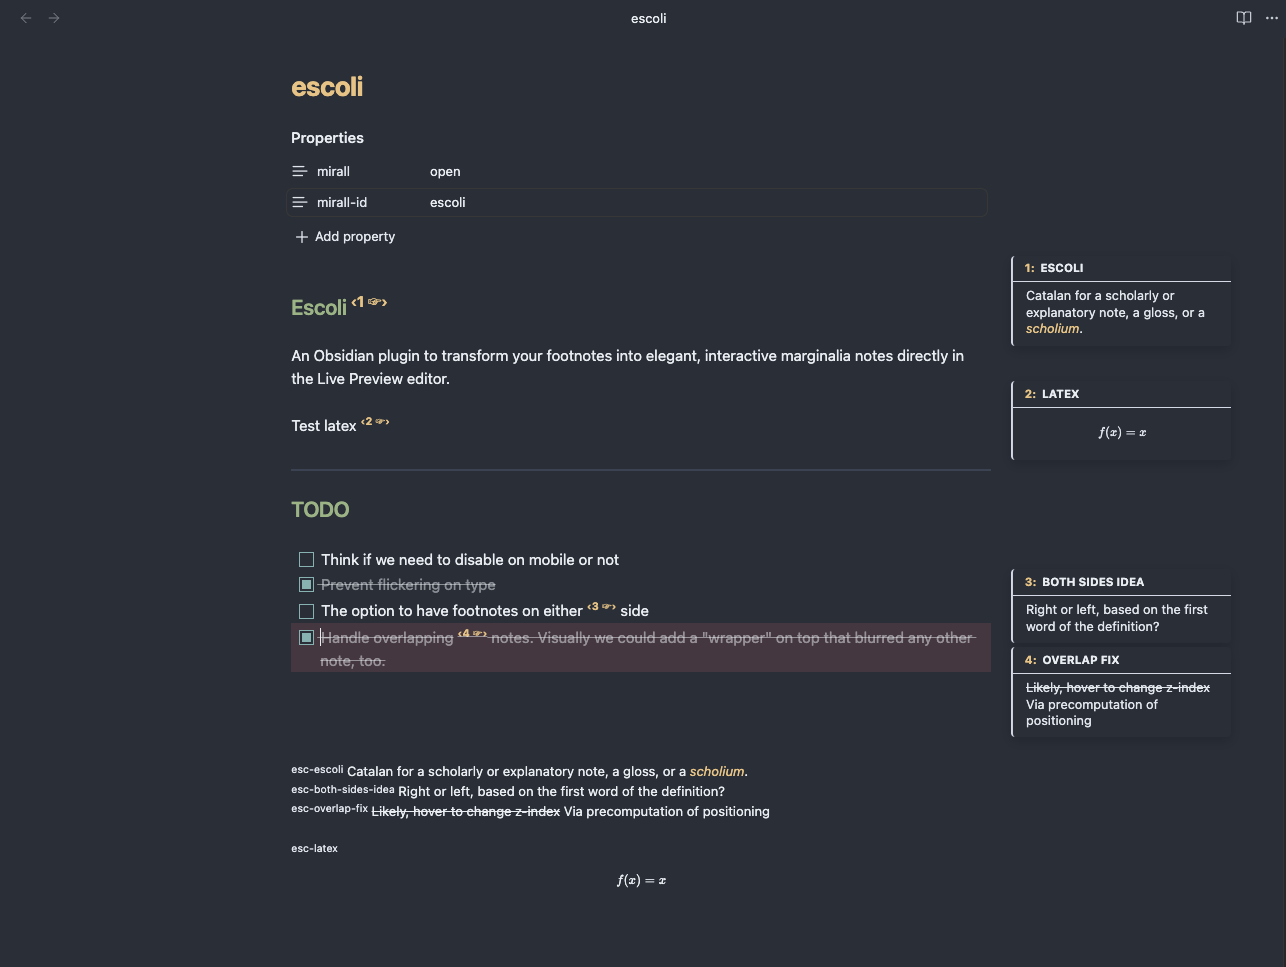
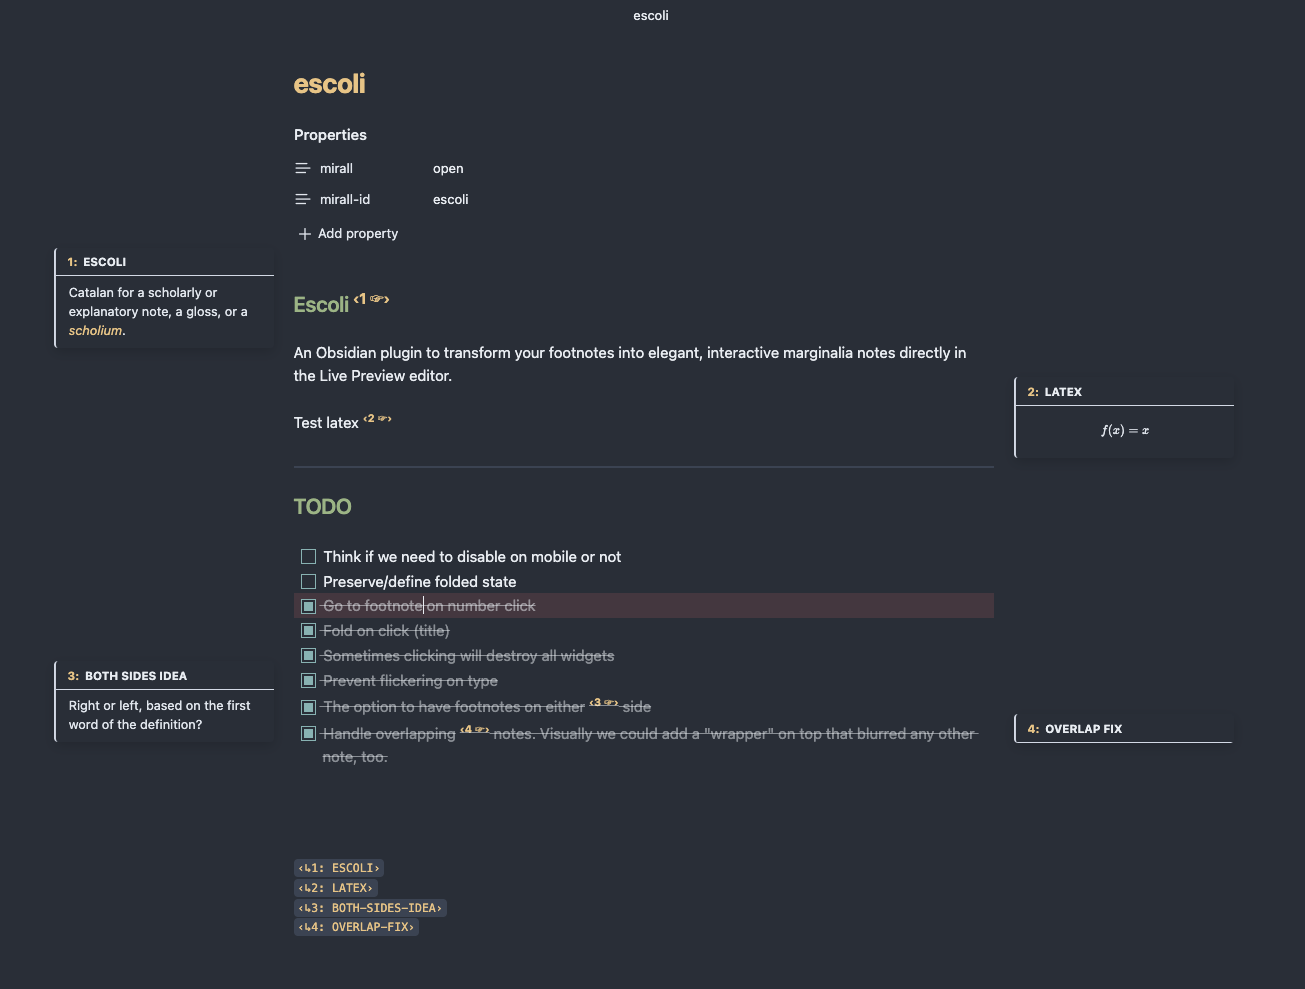
Estable left notes

diff --git a/styles.css b/styles.css
@@ -11,7 +11,9 @@
 	box-shadow: 0 4px 12px rgba(0, 0, 0, 0.15);
 	border-radius: 4px;
 	/* pointer-events: none; <-- This was the issue */
-	transition: top 0.2s ease-out, left 0.2s ease-out;
+	transition:
+		top 0.2s ease-out,
+		left 0.2s ease-out;
 	overflow: hidden;
 }
 
@@ -79,7 +81,7 @@ div.footnotes {
 
 /* Styles for the compact footnote definition marker */
 .escoli-footdef-mark {
-	color: var(--text-muted);
+	color: var(--code-function);
 	cursor: pointer;
 	font-family: var(--font-monospace);
 	font-size: var(--font-smaller);

diff --git a/src/EscoliViewPlugin.ts b/src/EscoliViewPlugin.ts
@@ -28,7 +28,7 @@ class FootnoteDefWidget extends WidgetType {
 	toDOM(view: EditorView): HTMLElement {
 		const el = createEl("span", {
 			cls: "escoli-footdef-mark",
-			text: `<${this.footnoteNumber}: ${this.displayName.toUpperCase()} 👁>`,
+			text: `‹↳${this.footnoteNumber}: ${this.displayName.toUpperCase()}›`,
 		});
 		return el;
 	}

diff --git a/README.md b/README.md
@@ -15,12 +15,18 @@ An Obsidian plugin to transform your footnotes into elegant, interactive margina
 
 Escoli enhances Obsidian's editor by turning a specific subset of your footnotes into a dynamic system for side notes.
 
-* **Live Preview Marginalia**: Your footnote content appears automatically in the right-hand margin as you write, no need to switch to Reading View.
-* **Editable Markers**: The footnote references in your text are replaced by clean, numbered markers (`‹1 ☞›`). Clicking on a marker instantly reveals the original `[^esc-note]` text so you can edit it seamlessly.
-* **Smart Note Titles**: Marginal notes are automatically titled with a sequential number and the name of your reference. For example, a footnote named `[^esc-key-concept]` will appear in the margin with the title `1: KEY CONCEPT`.
-* **Customizable Prefix**: You control which footnotes become marginalia. By default, only footnotes starting with `[^esc-...]` are transformed, but you can configure this prefix in the settings.
-* **Configurable Note Placement**: By default, notes appear in the right margin. To place a specific note in the left margin (if space is available), simply start its identifier with `l-`. For example, `[^esc-l-my-left-note]`.
-* **Clean Workspace**: The plugin automatically hides the standard footnote list at the bottom of the page in Reading View, keeping your notes tidy.
+*   **Live Preview Marginalia**: Your footnote content appears automatically in the margin as you write—no need to switch to Reading View.
+*   **Configurable Note Placement**: By default, notes appear in the right margin. To place a specific note in the left margin, simply start its identifier with `l-`. For example, `[^esc-l-my-left-note]`.
+*   **Interactive & Editable Markers**:
+    *   Footnote references in your text are replaced by clean, numbered markers (`‹1 ☞›`).
+    *   The corresponding footnote definitions at the bottom of your note are replaced by a compact marker (`‹↳ 1: KEY CONCEPT›`).
+    *   Placing your cursor on either marker instantly reveals the original Markdown for seamless editing.
+*   **Clickable Navigation**:
+    *   Clicking the number in a margin note (e.g., `1:`) instantly scrolls the editor to the corresponding footnote definition.
+*   **Foldable Notes**: Click the title text of a margin note to fold or unfold its content, keeping your workspace tidy.
+*   **Smart Note Titles**: Marginal notes are automatically titled with a sequential number and the name of your reference. For example, a footnote named `[^esc-key-concept]` will appear in the margin with the title `1: KEY CONCEPT`.
+*   **Customizable Prefix**: You control which footnotes become marginalia. By default, only footnotes starting with `[^esc-...]` are transformed, but you can configure this prefix in the settings.
+*   **Clean Workspace**: The plugin automatically hides the standard footnote list at the bottom of the page in Reading View.
 
 ---
 
